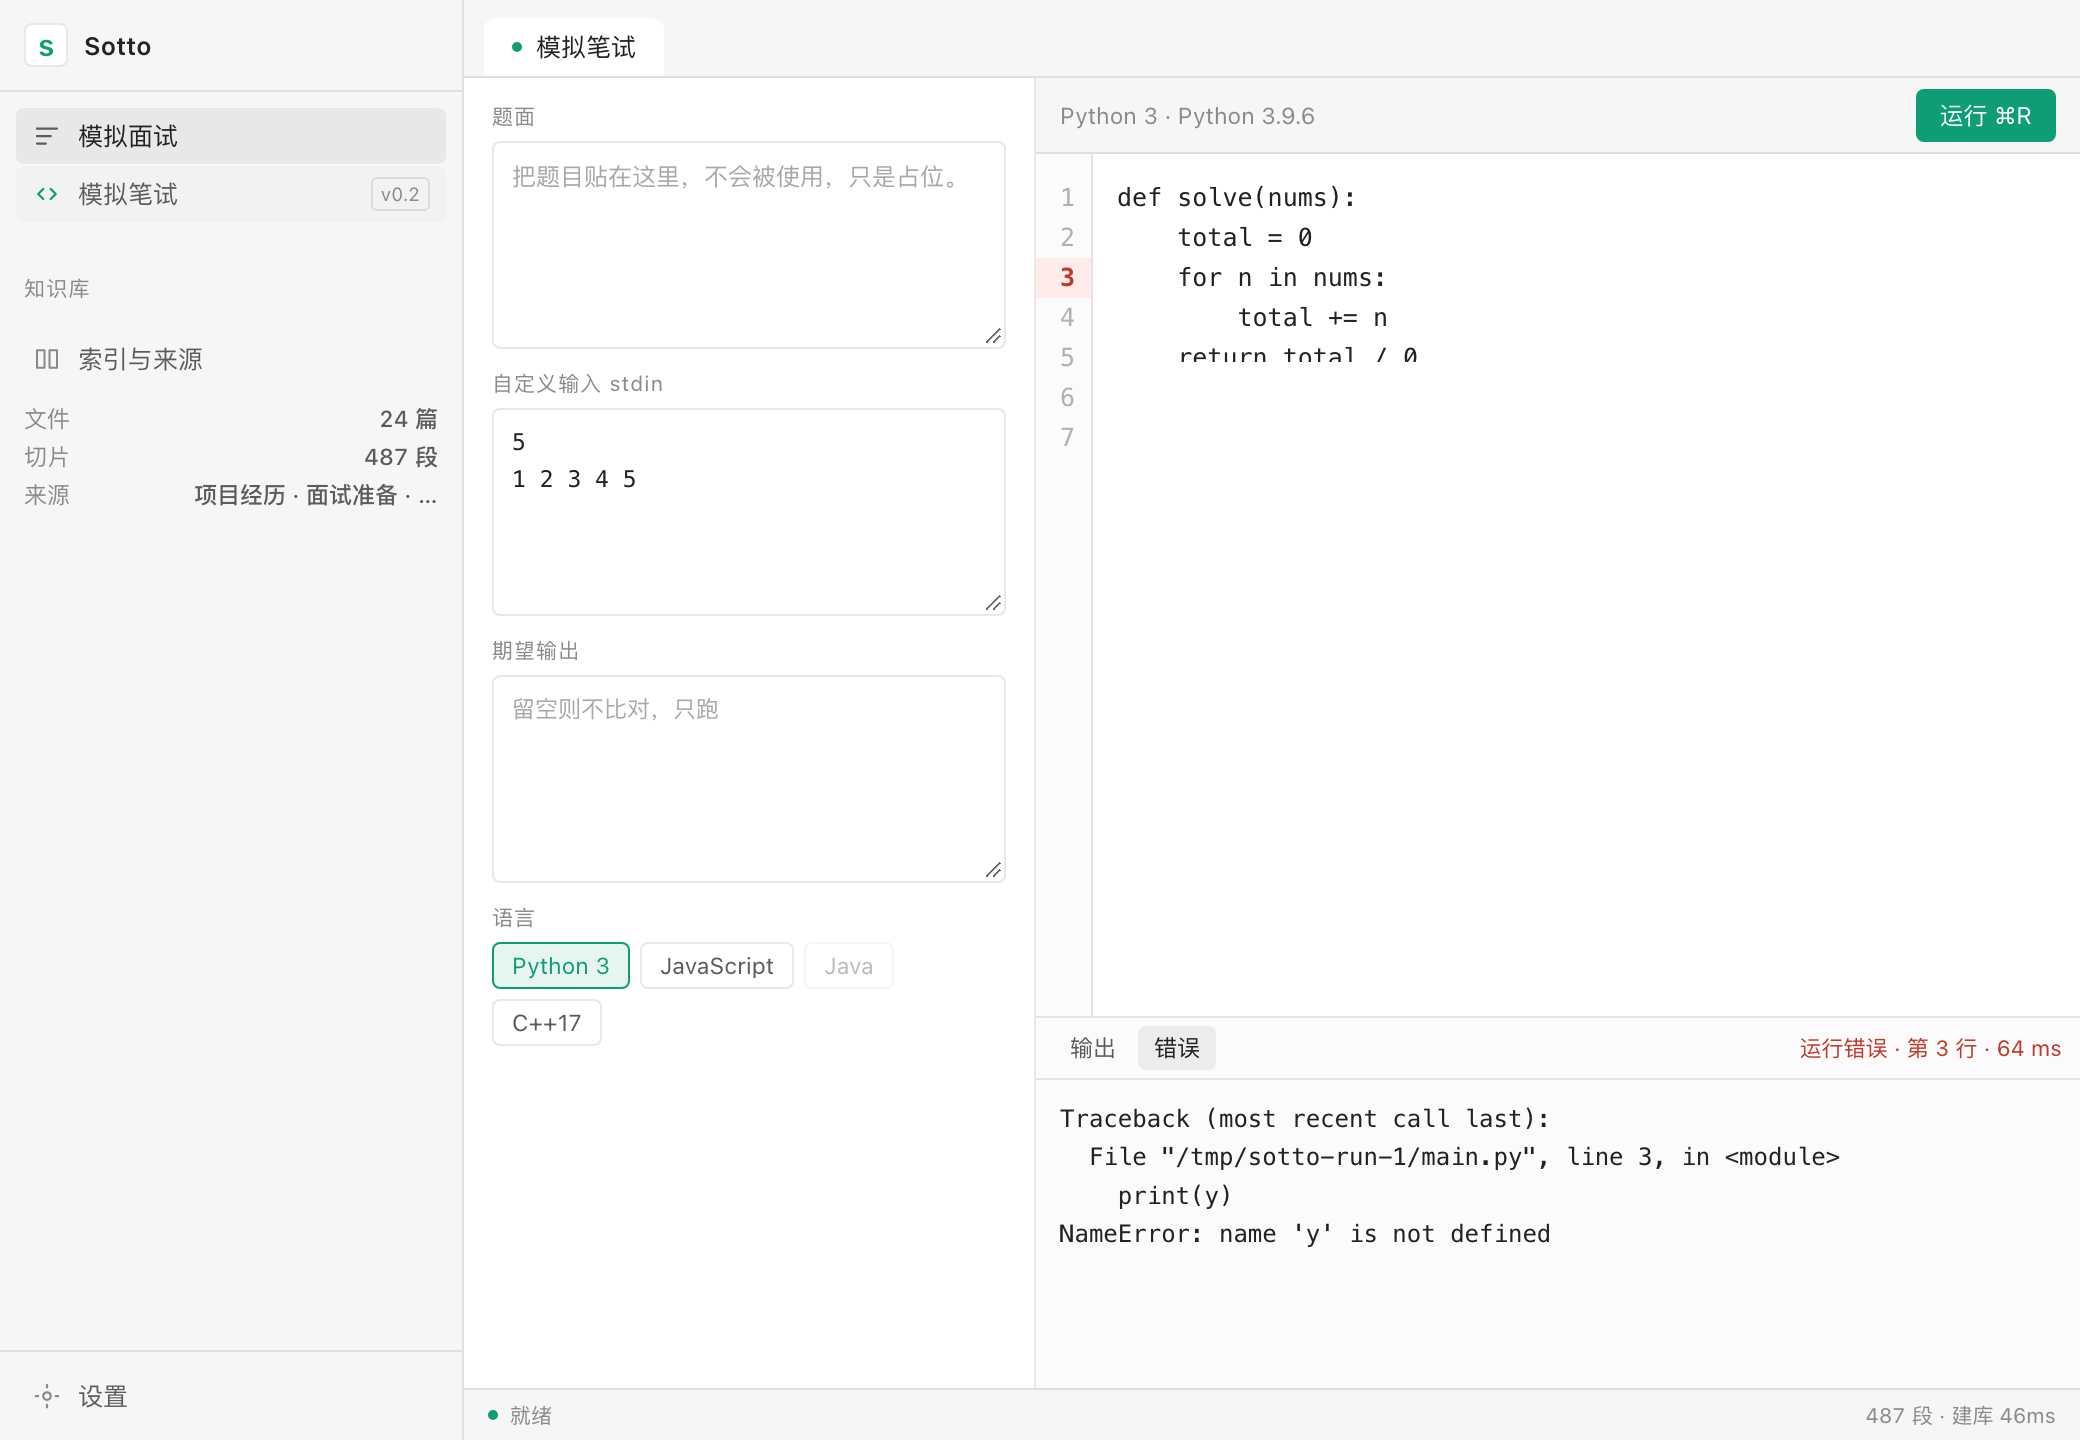
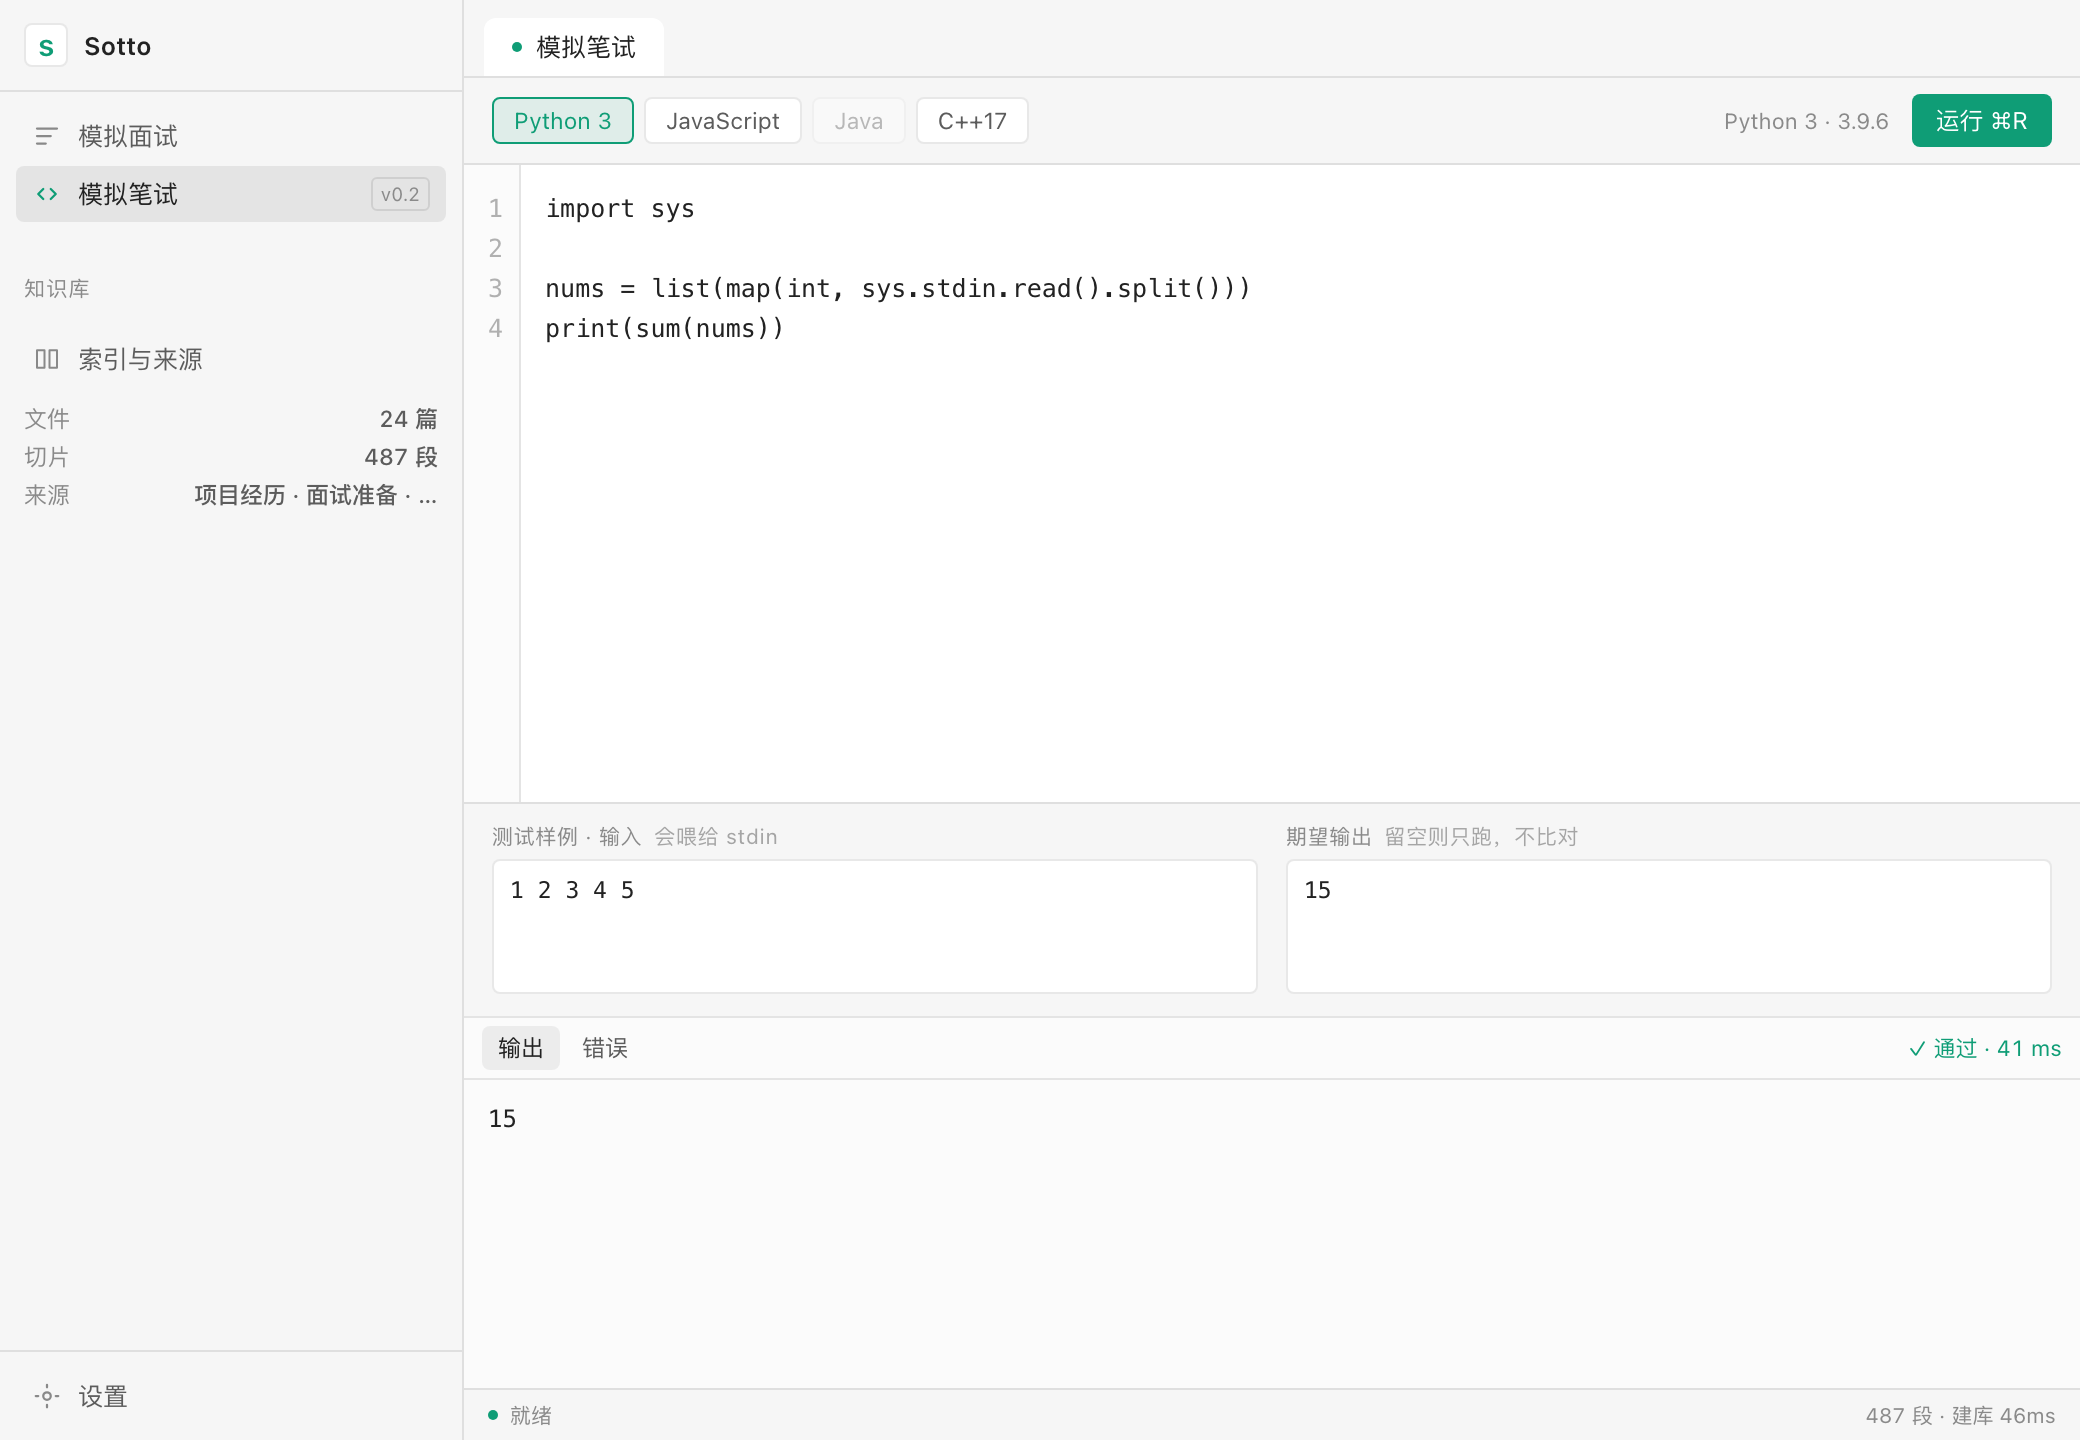
ui: 模拟笔试改上下布局，去掉题面栏
- 顶部工具栏：语言切换 + 版本 + 运行按钮
- 中间代码区占满剩余高度
- 底部并排：测试输入 / 期望输出，再下面是输出面板
- 行号在 keyup/change 时也重算，避免粘贴后行号残留

diff --git a/ui/index.html b/ui/index.html
@@ -98,39 +98,37 @@
         <!-- 模拟笔试 -->
         <section class="view" id="view-exam">
           <div class="exam">
-            <div class="exam-left">
-              <div class="pane-title">题面</div>
-              <textarea id="problem" class="plain-area" rows="6" placeholder="把题目贴在这里，不会被使用，只是占位。"></textarea>
-
-              <div class="pane-title">自定义输入 stdin</div>
-              <textarea id="stdin" class="plain-area mono" rows="3" placeholder="留空则不喂输入"></textarea>
-
-              <div class="pane-title">期望输出</div>
-              <textarea id="expected" class="plain-area mono" rows="3" placeholder="留空则不比对，只跑"></textarea>
-
-              <div class="pane-title">语言</div>
+            <div class="exam-bar">
               <div class="lang-row" id="langRow"></div>
-            </div>
-
-            <div class="exam-right">
-              <div class="editor-bar">
+              <div class="exam-bar-right">
                 <span class="editor-info" id="editorInfo">Python 3</span>
                 <button class="primary-btn" id="runBtn" type="button">运行 ⌘R</button>
               </div>
+            </div>
 
-              <div class="editor" id="editorBox">
-                <div class="gutter" id="gutter"></div>
-                <textarea id="code" class="code-area" spellcheck="false" autocapitalize="off" autocomplete="off"></textarea>
-              </div>
+            <div class="editor" id="editorBox">
+              <div class="gutter" id="gutter"></div>
+              <textarea id="code" class="code-area" spellcheck="false" autocapitalize="off" autocomplete="off"></textarea>
+            </div>
 
-              <div class="output">
-                <div class="out-head">
-                  <button class="out-tab active" type="button" data-out="stdout">输出</button>
-                  <button class="out-tab" type="button" data-out="stderr">错误</button>
-                  <span class="out-meta" id="runMeta"></span>
-                </div>
-                <pre id="outBody" class="out-body"></pre>
+            <div class="samples">
+              <label class="sample">
+                <span>测试样例 · 输入<em>会喂给 stdin</em></span>
+                <textarea id="stdin" class="sample-area" rows="3" placeholder="留空则不喂输入"></textarea>
+              </label>
+              <label class="sample">
+                <span>期望输出<em>留空则只跑，不比对</em></span>
+                <textarea id="expected" class="sample-area" rows="3" placeholder="填了就比对"></textarea>
+              </label>
+            </div>
+
+            <div class="output">
+              <div class="out-head">
+                <button class="out-tab active" type="button" data-out="stdout">输出</button>
+                <button class="out-tab" type="button" data-out="stderr">错误</button>
+                <span class="out-meta" id="runMeta"></span>
               </div>
+              <pre id="outBody" class="out-body"></pre>
             </div>
           </div>
         </section>

diff --git a/ui/style.css b/ui/style.css
@@ -582,52 +582,26 @@ textarea::placeholder {
 /* ================================================================ 模拟笔试 */
 .exam {
   display: flex;
+  flex-direction: column;
   flex: 1;
   min-height: 0;
 }
 
-.exam-left {
-  width: 286px;
-  flex: none;
+.exam-bar {
   display: flex;
-  flex-direction: column;
-  padding: 12px 14px 16px;
-  overflow-y: auto;
-  border-right: 1px solid var(--border);
+  align-items: center;
+  gap: 12px;
+  padding: 8px 14px;
+  flex: none;
+  border-bottom: 1px solid var(--border);
+  background: var(--bg-secondary);
 }
 
-.pane-title {
-  margin: 10px 0 5px;
-  font-size: 10.5px;
-  letter-spacing: 0.05em;
-  color: var(--text-faint);
-}
-
-.pane-title:first-child {
-  margin-top: 0;
-}
-
-.plain-area {
-  width: 100%;
-  padding: 7px 9px;
-  border: 1px solid var(--border);
-  border-radius: var(--radius-s);
-  background: #ffffff;
-  color: var(--text);
-  font-family: inherit;
-  font-size: 12px;
-  line-height: 1.6;
-  outline: 0;
-  resize: vertical;
-}
-
-.plain-area.mono {
-  font-family: ui-monospace, SFMono-Regular, Menlo, monospace;
-  font-size: 11.5px;
-}
-
-.plain-area:focus {
-  border-color: rgba(15, 157, 118, 0.45);
+.exam-bar-right {
+  margin-left: auto;
+  display: flex;
+  align-items: center;
+  gap: 11px;
 }
 
 .lang-row {
@@ -637,7 +611,7 @@ textarea::placeholder {
 }
 
 .lang-chip {
-  padding: 4px 9px;
+  padding: 4px 10px;
   border: 1px solid var(--border);
   border-radius: var(--radius-s);
   background: #ffffff;
@@ -664,26 +638,8 @@ textarea::placeholder {
   cursor: default;
 }
 
-.exam-right {
-  flex: 1;
-  min-width: 0;
-  display: flex;
-  flex-direction: column;
-}
-
-.editor-bar {
-  display: flex;
-  align-items: center;
-  justify-content: space-between;
-  height: 38px;
-  padding: 0 12px;
-  flex: none;
-  border-bottom: 1px solid var(--border);
-  background: var(--bg-secondary);
-}
-
 .editor-info {
-  font-size: 11.5px;
+  font-size: 11px;
   color: var(--text-faint);
 }
 
@@ -725,7 +681,7 @@ textarea::placeholder {
 
 .editor {
   flex: 1;
-  min-height: 0;
+  min-height: 140px;
   display: flex;
   overflow: hidden;
 }
@@ -773,6 +729,55 @@ textarea::placeholder {
   tab-size: 4;
 }
 
+/* 测试样例 */
+.samples {
+  flex: none;
+  display: flex;
+  gap: 14px;
+  padding: 9px 14px 11px;
+  border-top: 1px solid var(--border);
+  background: var(--bg-secondary);
+}
+
+.sample {
+  flex: 1;
+  min-width: 0;
+  display: flex;
+  flex-direction: column;
+  gap: 4px;
+}
+
+.sample > span {
+  font-size: 10.5px;
+  color: var(--text-faint);
+  letter-spacing: 0.03em;
+}
+
+.sample > span em {
+  margin-left: 6px;
+  font-style: normal;
+  opacity: 0.75;
+}
+
+.sample-area {
+  height: 62px;
+  padding: 6px 8px;
+  border: 1px solid var(--border);
+  border-radius: var(--radius-s);
+  background: #ffffff;
+  color: var(--text);
+  font-family: ui-monospace, SFMono-Regular, Menlo, monospace;
+  font-size: 11.5px;
+  line-height: 1.55;
+  outline: 0;
+  resize: none;
+}
+
+.sample-area:focus {
+  border-color: rgba(15, 157, 118, 0.45);
+}
+
+/* 输出 */
 .output {
   flex: none;
   height: 186px;

diff --git a/ui/app.js b/ui/app.js
@@ -357,6 +357,9 @@ code.addEventListener("input", () => {
   renderGutter();
   markError(null);
 });
+// 粘贴/撤销/输入法这类路径不一定都走 input，兜一层
+code.addEventListener("keyup", renderGutter);
+code.addEventListener("change", renderGutter);
 code.addEventListener("scroll", () => {
   gutter.scrollTop = code.scrollTop;
 });

diff --git a/README.md b/README.md
@@ -108,7 +108,7 @@ SOTTO_ROOT=~/Notes SOTTO_INCLUDE=项目经历,面试准备 cargo run -p sotto-de
 
 ## 模拟笔试（PRD F5）
 
-左侧题面 / stdin / 期望输出 / 语言，右侧编辑器 + 输出面板。
+上下布局：顶部语言切换 + 运行按钮，中间代码区，底部测试样例与输出。
 
 ![模拟笔试](docs/exam.png)
 
@@ -117,7 +117,8 @@ SOTTO_ROOT=~/Notes SOTTO_INCLUDE=项目经历,面试准备 cargo run -p sotto-de
 - **执行**：临时目录 + `subprocess` + 3s 超时 + 进程组 kill。
 - **报错定位**：编译错误解析 `file:line`，运行时错误从 traceback / 栈里抠行号，
   回到编辑器把那一行的行号标红。四门语言各有一套格式，没引正则。
-- **用例比对**：填了「期望输出」就比对（trim 后全等），留空就只跑。
+- **测试样例**：底部两个框——输入（喂 stdin）与期望输出；填了就比对（trim 后全等），
+  留空就只跑。「✓ 通过 / ✗ 输出不匹配」直接写在输出栏右上角。
 - 明确不做：隐藏用例、评分、通过率、沙箱。**它不是 LeetCode，是练手感的沙盘。**
 
 ## 索引与来源（PRD F4.6）
